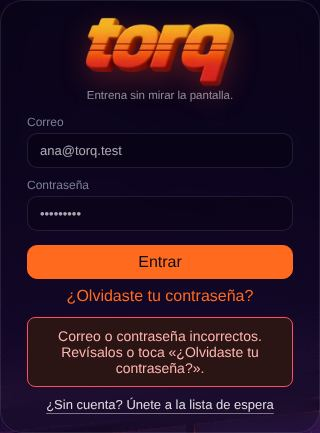
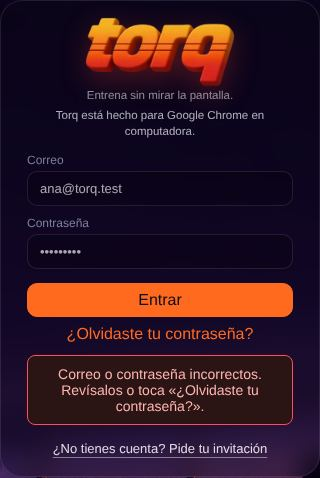
Login: «Pide tu invitación» como acción principal y link directo ?unete
El botón para apuntarse era un link subrayado debajo de «Entrar»: quien
llegaba con el link compartido no lo veía. Ahora es un botón naranja grande
con brillo; el formulario pide solo el correo (nombre y disciplina quedan en
«Cuéntanos más», opcional) y la confirmación muestra a qué correo llega la
invitación. Con ?unete (o #/login/unete) el link abre directo el correo.

Claude-Session: https://claude.ai/code/session_01PEamosae2Gpo5Ag8tL89xo

Changed region(s): [[0.0, 0.3303, 1.0, 1.0], [0.1875, 0.03, 0.8125, 0.3002], [0.0625, 0.2702, 0.1875, 0.3002]]

diff --git a/src/ui/screens/login.ts b/src/ui/screens/login.ts
@@ -1,8 +1,9 @@
 import { isSupabaseConfigured, supabase } from '../../supabase/client';
 import { subscribeAmbientState, toggleAmbientTrack } from '../ambient-audio';
-import { navigate } from '../router';
+import { getRouteParam, navigate } from '../router';
 import { appState } from '../state';
 import { requestPasswordReset } from '../password-reset';
+import { escapeHtml } from '../workout-cover';
 import { joinWaitlist } from '../../sync/waitlist';
 import { BROWSER_HINT, browserWarning } from '../../devices/ble-support';
 
@@ -17,6 +18,12 @@ export function loginErrorText(error: { message: string; code?: string; status?:
   return 'No se pudo entrar. Intenta de nuevo en un momento.';
 }
 
+/** `?unete` en la URL (o `#/login/unete`): el link que se comparte para
+ * invitar a alguien abre directo el formulario de invitación. */
+function wantsInvite(): boolean {
+  return new URLSearchParams(location.search).has('unete') || getRouteParam() === 'unete';
+}
+
 function renderLoginGate(container: HTMLElement, client: NonNullable<typeof supabase>): void {
   container.innerHTML = `
     <div class="hero${appState.settings.heroCharacter === 'woman' ? ' hero-woman' : ''}" style="min-height:100vh">
@@ -24,7 +31,34 @@ function renderLoginGate(container: HTMLElement, client: NonNullable<typeof supa
         <div class="brand"><img class="brand-logo" src="/brand/logo-torq.webp" alt="torq" width="150" height="70"></div>
         <div class="tag">Entrena sin mirar la pantalla.</div>
         <p class="entry-browser${browserWarning() ? ' warn' : ''}" id="entry-browser">${browserWarning() ?? BROWSER_HINT}</p>
-        <button type="button" class="ghost-btn" id="entry-toggle">Entrar</button>
+        <button type="button" class="invite-cta" id="waitlist-toggle">
+          <span class="invite-cta-label">Pide tu invitación</span>
+          <span class="invite-cta-arrow" aria-hidden="true">→</span>
+        </button>
+        <p class="invite-cta-sub" id="invite-cta-sub">Solo tu correo · te avisamos en cuanto sea tu turno</p>
+        <form class="entry-fields" id="waitlist-form" novalidate>
+          <p class="waitlist-intro">¡Qué gusto que quieras rodar con Torq! 🚴 Déjanos tu correo y te mandamos tu invitación.</p>
+          <label>Correo<input type="email" id="waitlist-email" placeholder="tucorreo@ejemplo.com" autocomplete="email" inputmode="email" enterkeyhint="send"></label>
+          <button type="submit" class="invite-cta invite-cta-submit" id="waitlist-btn">
+            <span class="invite-cta-label">Envíame mi invitación</span>
+            <span class="invite-cta-arrow" aria-hidden="true">→</span>
+          </button>
+          <div id="waitlist-result" aria-live="polite"></div>
+          <details class="waitlist-extra">
+            <summary>Cuéntanos más <span class="hint">(opcional)</span></summary>
+            <label>Nombre<input type="text" id="waitlist-name" maxlength="80" autocomplete="given-name"></label>
+            <label>¿Qué ruedas?
+              <select id="waitlist-discipline">
+                <option value="">—</option>
+                <option value="road">Ruta</option>
+                <option value="mountain">Montaña / XC</option>
+                <option value="gravel">Gravel</option>
+                <option value="other">Otra</option>
+              </select>
+            </label>
+          </details>
+        </form>
+        <button type="button" class="ghost-btn entry-login-link" id="entry-toggle">¿Ya tienes cuenta? Entrar</button>
         <form class="entry-fields" id="entry-fields" novalidate>
           <label>Correo<input type="email" id="login-email" placeholder="tucorreo@ejemplo.com" autocomplete="email"></label>
           <label>Contraseña<input type="password" id="login-password" autocomplete="current-password"></label>
@@ -32,23 +66,7 @@ function renderLoginGate(container: HTMLElement, client: NonNullable<typeof supa
           <a href="#" class="hint" id="login-forgot" style="display:block;margin-top:8px">¿Olvidaste tu contraseña?</a>
           <div id="login-result" aria-live="polite"></div>
         </form>
-        <button type="button" class="ghost-btn waitlist-toggle" id="waitlist-toggle">¿Sin cuenta? Únete a la lista de espera</button>
-        <form class="entry-fields" id="waitlist-form" novalidate>
-          <p class="waitlist-intro">¡Qué gusto que quieras rodar con Torq! 🚴 Estamos abriendo poco a poco para acompañar bien a cada ciclista. Déjanos tu correo y te avisamos en cuanto sea tu turno.</p>
-          <label>Correo<input type="email" id="waitlist-email" placeholder="tucorreo@ejemplo.com" autocomplete="email"></label>
-          <label>Nombre <span class="hint">(opcional)</span><input type="text" id="waitlist-name" maxlength="80" autocomplete="given-name"></label>
-          <label>¿Qué ruedas? <span class="hint">(opcional)</span>
-            <select id="waitlist-discipline">
-              <option value="">—</option>
-              <option value="road">Ruta</option>
-              <option value="mountain">Montaña / XC</option>
-              <option value="gravel">Gravel</option>
-              <option value="other">Otra</option>
-            </select>
-          </label>
-          <button type="submit" class="primary" id="waitlist-btn">Apuntarme</button>
-          <div id="waitlist-result" aria-live="polite"></div>
-        </form>
+        <button type="button" class="ghost-btn waitlist-back" id="waitlist-back" hidden>¿No tienes cuenta? Pide tu invitación</button>
       </div>
       <button type="button" class="music-toggle" id="music-toggle" title="Still Corners – The Trip (click para reproducir)">🔇</button>
       <button type="button" class="hero-toggle" id="hero-toggle" title="Cambiar apariencia">${appState.settings.heroCharacter === 'woman' ? '🚴♀' : '🚴♂'}</button>
@@ -69,33 +87,43 @@ function renderLoginGate(container: HTMLElement, client: NonNullable<typeof supa
 
   const waitlistToggle = container.querySelector<HTMLButtonElement>('#waitlist-toggle')!;
   const waitlistForm = container.querySelector<HTMLFormElement>('#waitlist-form')!;
-  /** Muestra el login o la lista de espera (uno a la vez). */
+  const waitlistBack = container.querySelector<HTMLButtonElement>('#waitlist-back')!;
+  const ctaSub = container.querySelector<HTMLElement>('#invite-cta-sub')!;
+  /** Muestra el login o la invitación (uno a la vez). La invitación es lo
+   * principal: casi todos los que llegan con el link todavía no tienen cuenta. */
   const show = (which: 'login' | 'waitlist') => {
     pill.classList.add('active');
     fields.classList.toggle('open', which === 'login');
     waitlistForm.classList.toggle('open', which === 'waitlist');
     toggleBtn.hidden = which === 'login';
-    toggleBtn.textContent = which === 'waitlist' ? 'Ya tengo cuenta: entrar' : 'Entrar';
-    waitlistToggle.hidden = which === 'waitlist';
+    waitlistToggle.hidden = true;
+    ctaSub.hidden = true;
+    waitlistBack.hidden = which === 'waitlist';
     container.querySelector<HTMLInputElement>(which === 'login' ? '#login-email' : '#waitlist-email')?.focus();
   };
   toggleBtn.addEventListener('click', () => show('login'));
   waitlistToggle.addEventListener('click', () => show('waitlist'));
+  waitlistBack.addEventListener('click', () => show('waitlist'));
+  // Link para compartir: torq…/?unete (o #/login/unete) abre directo el
+  // correo para pedir la invitación, sin buscar el botón.
+  if (wantsInvite()) show('waitlist');
   waitlistForm.addEventListener('submit', async (e) => {
     e.preventDefault();
     const resultEl = container.querySelector<HTMLElement>('#waitlist-result')!;
     const btn = container.querySelector<HTMLButtonElement>('#waitlist-btn')!;
     btn.disabled = true;
     resultEl.innerHTML = '<p class="hint">Enviando…</p>';
+    const email = container.querySelector<HTMLInputElement>('#waitlist-email')!.value;
     const res = await joinWaitlist(
-      container.querySelector<HTMLInputElement>('#waitlist-email')!.value,
+      email,
       container.querySelector<HTMLInputElement>('#waitlist-name')!.value,
       container.querySelector<HTMLSelectElement>('#waitlist-discipline')!.value,
     );
     btn.disabled = false;
     if (res === 'ok') {
-      waitlistForm.querySelectorAll('label, #waitlist-btn, .waitlist-intro').forEach((el) => ((el as HTMLElement).hidden = true));
-      resultEl.innerHTML = '<p class="waitlist-done">¡Gracias por apuntarte! 🎉 Ya estás en la lista. Te escribimos a ese correo en cuanto sea tu turno. ¡Nos vemos en la bici!</p>';
+      waitlistForm.querySelectorAll('label, #waitlist-btn, .waitlist-intro, .waitlist-extra').forEach((el) => ((el as HTMLElement).hidden = true));
+      waitlistBack.hidden = true;
+      resultEl.innerHTML = `<div class="waitlist-done"><span class="waitlist-done-icon" aria-hidden="true">🎉</span><strong>¡Listo, ya estás en la lista!</strong><span>Te mandamos tu invitación a <b>${escapeHtml(email.trim().toLowerCase())}</b> en cuanto sea tu turno. ¡Nos vemos en la bici!</span></div>`;
     } else {
       resultEl.innerHTML = `<div class="error-box">${res === 'invalid_email' ? 'Revisa tu correo: parece que le falta algo.' : 'No se pudo guardar. Intenta de nuevo en un momento.'}</div>`;
     }

diff --git a/src/ui/styles.css b/src/ui/styles.css
@@ -7915,26 +7915,177 @@ body:has(.pinon-bubble-layer) .pinon-chat-launcher {
   line-height: 1.5;
 }
 
-/* Login: lista de espera (login.ts, sync/waitlist.ts) */
-.waitlist-toggle {
-  margin-top: 6px;
+/* Login: invitación / lista de espera (login.ts, sync/waitlist.ts).
+   «Pide tu invitación» es la acción principal del login: casi todos los que
+   llegan con el link todavía no tienen cuenta. */
+.invite-cta {
+  position: relative;
+  overflow: hidden;
+  display: inline-flex;
+  align-items: center;
+  justify-content: center;
+  gap: 10px;
+  margin-top: 18px;
+  padding: 14px 26px;
+  border: none;
+  border-radius: 999px;
+  background: linear-gradient(135deg, var(--accent-light) 0%, var(--accent) 55%, #e2470a 100%);
+  color: #fff;
+  font-family: var(--font-display);
+  font-size: 16px;
+  font-weight: 700;
+  letter-spacing: 0.2px;
+  text-shadow: none;
+  cursor: pointer;
+  box-shadow: 0 10px 30px color-mix(in srgb, var(--accent) 45%, transparent), inset 0 1px 0 rgba(255, 255, 255, 0.35);
+  transition: transform 0.18s ease, box-shadow 0.18s ease;
+  animation: invite-glow 2.6s ease-in-out infinite;
+}
+/* brillo que cruza el botón cada tanto, para que se note sin gritar */
+.invite-cta::after {
+  content: '';
+  position: absolute;
+  inset: 0;
+  background: linear-gradient(110deg, transparent 30%, rgba(255, 255, 255, 0.35) 50%, transparent 70%);
+  transform: translateX(-120%);
+  animation: invite-shine 3.6s ease-in-out infinite;
+  pointer-events: none;
+}
+.invite-cta:hover {
+  transform: translateY(-2px) scale(1.02);
+  box-shadow: 0 14px 38px color-mix(in srgb, var(--accent) 60%, transparent), inset 0 1px 0 rgba(255, 255, 255, 0.35);
+}
+.invite-cta:active {
+  transform: translateY(0) scale(0.98);
+}
+.invite-cta:focus-visible {
+  outline: 2px solid #fff;
+  outline-offset: 3px;
+}
+.invite-cta:disabled {
+  opacity: 0.7;
+  cursor: wait;
+}
+.invite-cta-arrow {
+  font-size: 18px;
+  transition: transform 0.18s ease;
+}
+.invite-cta:hover .invite-cta-arrow {
+  transform: translateX(4px);
+}
+.invite-cta-submit {
+  width: 100%;
+  margin-top: 14px;
+  padding: 13px 16px;
+  font-size: 15px;
+  white-space: nowrap;
+  animation: none;
+  /* el formulario recorta lo que sobresale (overflow: hidden para abrirse
+     animado): sombra corta para que no se vea cortada */
+  box-shadow: 0 4px 12px color-mix(in srgb, var(--accent) 35%, transparent), inset 0 1px 0 rgba(255, 255, 255, 0.35);
+}
+.invite-cta-submit:hover {
+  transform: none;
+  box-shadow: 0 4px 14px color-mix(in srgb, var(--accent) 50%, transparent), inset 0 1px 0 rgba(255, 255, 255, 0.35);
+}
+@keyframes invite-glow {
+  0%,
+  100% {
+    box-shadow: 0 10px 30px color-mix(in srgb, var(--accent) 40%, transparent), inset 0 1px 0 rgba(255, 255, 255, 0.35);
+  }
+  50% {
+    box-shadow: 0 10px 42px color-mix(in srgb, var(--accent) 70%, transparent), inset 0 1px 0 rgba(255, 255, 255, 0.35);
+  }
+}
+@keyframes invite-shine {
+  0%,
+  60% {
+    transform: translateX(-120%);
+  }
+  100% {
+    transform: translateX(120%);
+  }
+}
+@media (prefers-reduced-motion: reduce) {
+  .invite-cta,
+  .invite-cta::after {
+    animation: none;
+  }
+}
+.invite-cta-sub {
+  margin: 8px 0 0;
+  font-size: 11.5px;
+  opacity: 0.75;
+}
+.entry-login-link,
+.waitlist-back {
+  margin-top: 12px;
   font-weight: 500;
   opacity: 0.85;
 }
 .entry-fields#waitlist-form.open {
-  max-height: 520px;
+  max-height: 560px;
+  padding-bottom: 4px;
 }
 .entry-fields select {
   width: 100%;
 }
-.waitlist-intro,
-.waitlist-done {
-  margin: 0 0 6px;
-  font-size: 13px;
+.waitlist-intro {
+  margin: 10px 0 2px;
+  font-size: 14px;
   line-height: 1.4;
-  color: rgba(255, 255, 255, 0.85);
+  color: rgba(255, 255, 255, 0.9);
 }
-.waitlist-toggle[hidden],
+.entry-pill #waitlist-email {
+  padding: 12px 14px;
+  font-size: 15px;
+  border-color: color-mix(in srgb, var(--accent) 45%, rgba(255, 255, 255, 0.14));
+}
+.entry-pill #waitlist-email:focus {
+  outline: none;
+  border-color: var(--accent);
+  box-shadow: 0 0 0 3px color-mix(in srgb, var(--accent) 30%, transparent);
+}
+.waitlist-extra {
+  margin-top: 10px;
+  text-align: left;
+  font-size: 12px;
+}
+.waitlist-extra summary {
+  cursor: pointer;
+  opacity: 0.75;
+}
+.waitlist-done {
+  display: flex;
+  flex-direction: column;
+  align-items: center;
+  gap: 6px;
+  margin: 12px 0 4px;
+  font-size: 13.5px;
+  line-height: 1.45;
+  color: rgba(255, 255, 255, 0.9);
+  animation: invite-pop 0.4s ease-out;
+}
+.waitlist-done strong {
+  font-family: var(--font-display);
+  font-size: 17px;
+  color: #fff;
+}
+.waitlist-done-icon {
+  font-size: 34px;
+}
+@keyframes invite-pop {
+  from {
+    opacity: 0;
+    transform: scale(0.92);
+  }
+  to {
+    opacity: 1;
+    transform: none;
+  }
+}
+.invite-cta[hidden],
+.invite-cta-sub[hidden],
 .ghost-btn[hidden] {
   display: none;
 }

diff --git a/e2e/nube/05-decisiones.spec.ts b/e2e/nube/05-decisiones.spec.ts
@@ -99,12 +99,13 @@ test.describe('Piñón en el Resumen', () => {
 test.describe('Lista de espera', () => {
   test('sin invitación: se apunta en 2 campos y queda claro qué sigue', async ({ page, backend, ux }) => {
     await page.goto('/');
-    await ux.click(page.locator('#waitlist-toggle'), '¿Sin cuenta? Lista de espera');
+    await ux.click(page.locator('#waitlist-toggle'), 'Pide tu invitación');
     await ux.shot('63-lista-de-espera');
     await ux.fill(page.locator('#waitlist-email'), 'Luis@Correo.com', 'Correo');
+    await page.locator('.waitlist-extra summary').click();
     await page.locator('#waitlist-discipline').selectOption('gravel');
-    await ux.click(page.locator('#waitlist-btn'), 'Apuntarme');
-    await expect(page.locator('#waitlist-result')).toContainText('¡Gracias por apuntarte! 🎉 Ya estás en la lista.');
+    await ux.click(page.locator('#waitlist-btn'), 'Envíame mi invitación');
+    await expect(page.locator('#waitlist-result')).toContainText('¡Listo, ya estás en la lista!');
     await expect(page.locator('#waitlist-email')).toBeHidden();
     expect(backend.table('waitlist')).toEqual([expect.objectContaining({ email: 'luis@correo.com', discipline: 'gravel' })]);
     expect(ux.interactions).toBeLessThanOrEqual(4);
@@ -112,9 +113,9 @@ test.describe('Lista de espera', () => {
 
   test('correo mal escrito: avisa en español y no manda nada', async ({ page, backend, ux }) => {
     await page.goto('/');
-    await ux.click(page.locator('#waitlist-toggle'), 'Lista de espera');
+    await ux.click(page.locator('#waitlist-toggle'), 'Pide tu invitación');
     await ux.fill(page.locator('#waitlist-email'), 'luis@', 'Correo');
-    await ux.click(page.locator('#waitlist-btn'), 'Apuntarme');
+    await ux.click(page.locator('#waitlist-btn'), 'Envíame mi invitación');
     await expect(page.locator('#waitlist-result')).toContainText('Revisa tu correo');
     expect(backend.table('waitlist')).toHaveLength(0);
   });
@@ -126,16 +127,26 @@ test.describe('Lista de espera', () => {
       route.fulfill({ status: 409, contentType: 'application/json', body: JSON.stringify({ code: '23505', message: 'duplicate key value' }) }),
     );
     await page.goto('/');
-    await ux.click(page.locator('#waitlist-toggle'), 'Lista de espera');
+    await ux.click(page.locator('#waitlist-toggle'), 'Pide tu invitación');
     await ux.fill(page.locator('#waitlist-email'), 'luis@correo.com', 'Correo');
-    await ux.click(page.locator('#waitlist-btn'), 'Apuntarme');
-    await expect(page.locator('#waitlist-result')).toContainText('¡Gracias por apuntarte! 🎉 Ya estás en la lista.');
+    await ux.click(page.locator('#waitlist-btn'), 'Envíame mi invitación');
+    await expect(page.locator('#waitlist-result')).toContainText('¡Listo, ya estás en la lista!');
+  });
+
+  test('el link para compartir (?unete) abre directo el correo de la invitación', async ({ page, backend, ux }) => {
+    await page.goto('/?unete');
+    await expect(page.locator('#waitlist-email')).toBeFocused();
+    await ux.fill(page.locator('#waitlist-email'), 'ana@correo.com', 'Correo');
+    await ux.click(page.locator('#waitlist-btn'), 'Envíame mi invitación');
+    await expect(page.locator('#waitlist-result')).toContainText('ana@correo.com');
+    expect(backend.table('waitlist')).toEqual([expect.objectContaining({ email: 'ana@correo.com' })]);
+    expect(ux.interactions).toBeLessThanOrEqual(2);
   });
 
   test('desde la lista de espera se vuelve al login en 1 clic', async ({ page, ux }) => {
     await page.goto('/');
-    await ux.click(page.locator('#waitlist-toggle'), 'Lista de espera');
-    await ux.click(page.locator('#entry-toggle'), 'Ya tengo cuenta: entrar');
+    await ux.click(page.locator('#waitlist-toggle'), 'Pide tu invitación');
+    await ux.click(page.locator('#entry-toggle'), '¿Ya tienes cuenta? Entrar');
     await expect(page.locator('#login-email')).toBeFocused();
     await expect(page.locator('#waitlist-form')).not.toHaveClass(/open/);
   });
